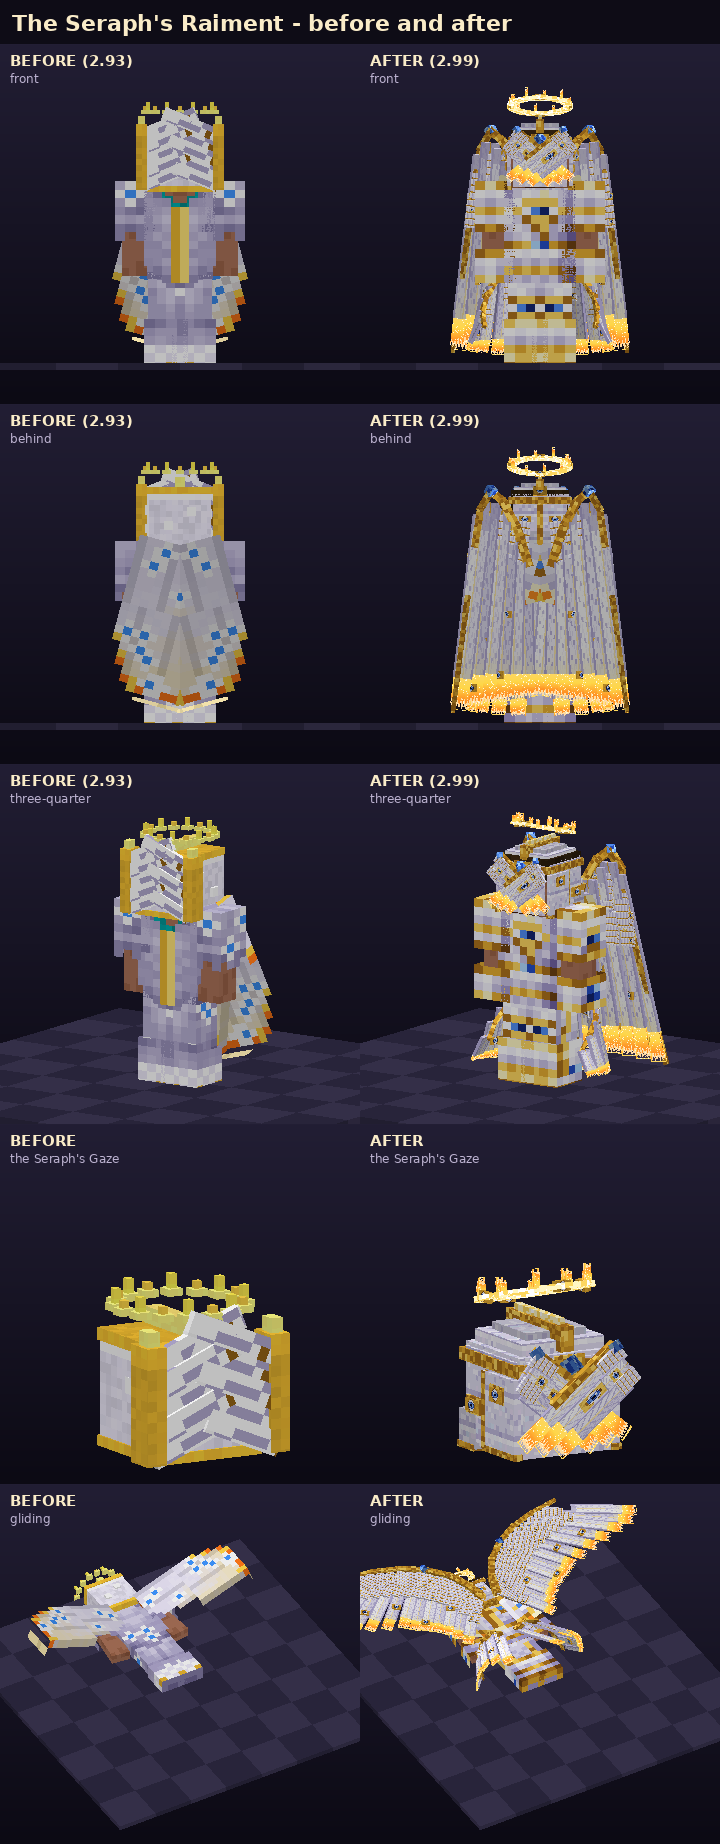
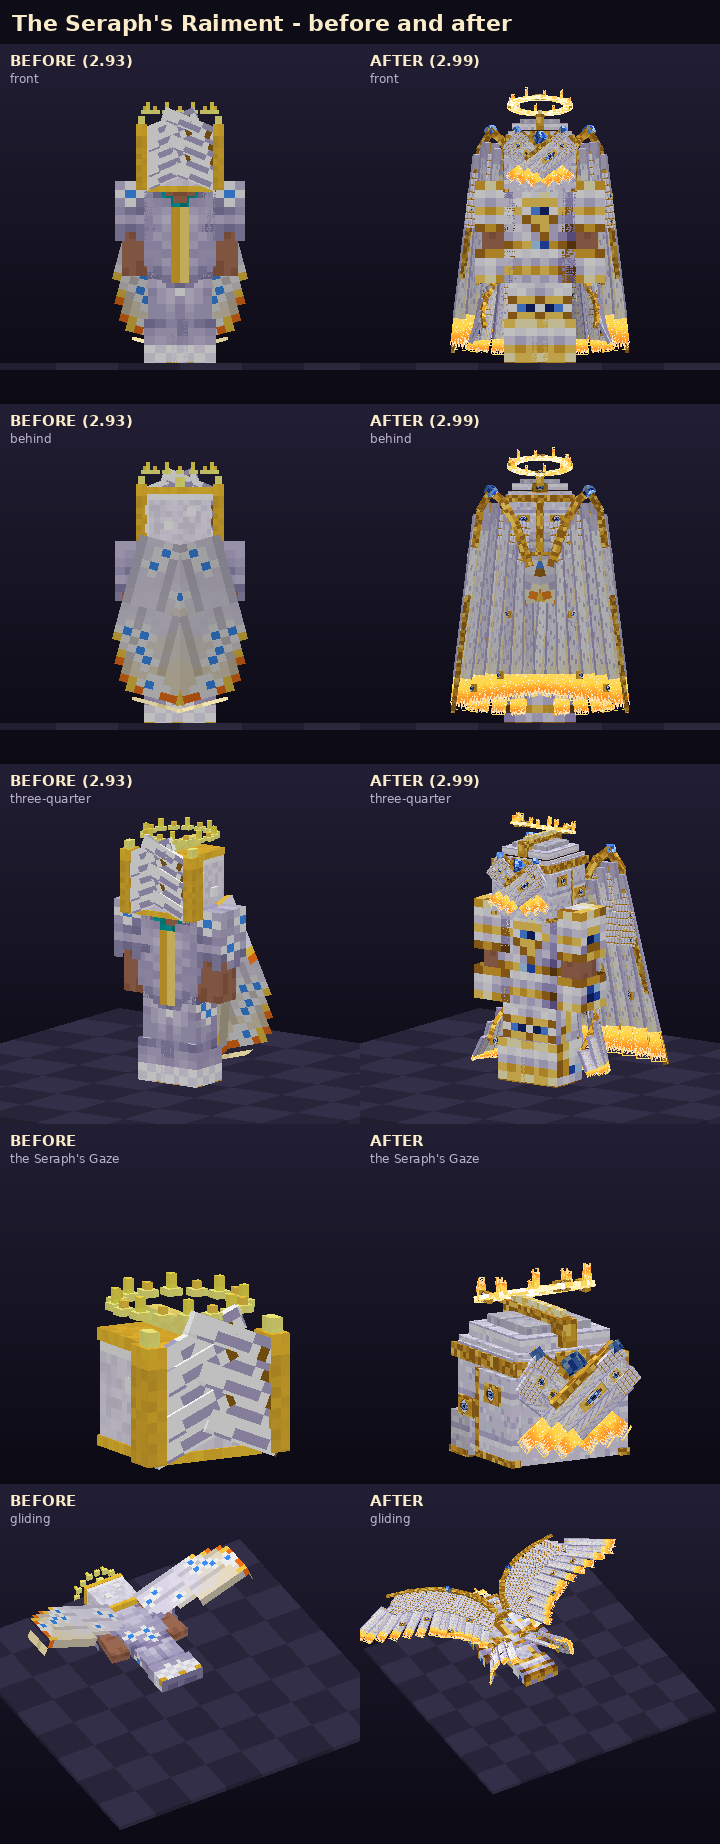
The Seraph's Raiment redone: worn layers, helm, sprites, 3D six-wing displays (seraph_wings)
Claude-Session: https://claude.ai/code/session_01XWL2YCZPbHFbZZugTCggqD

diff --git a/bm_build/tools/preview/seraph.py b/bm_build/tools/preview/seraph.py
@@ -180,14 +180,14 @@ if 'wings' in what and W:
          tile('back', 'at rest (sway b)', 'the idle sway, 40 ticks each way', wings3d='rest_b'),
          tile((60, 10), 'at rest, side', None, wings3d='rest_a'),
          tile('front', 'at rest, front', None, wings3d='rest_a'),
-         tile('back', 'sneaking', 'leaning, folded close', kind='crouch', wings3d='sneak'),
+         tile('back', 'sneaking', 'leaning; drawn round like a mantle', kind='crouch', wings3d='sneak'),
          tile((70, 8), 'sneaking, side', None, kind='crouch', wings3d='sneak'),
          tile('back', 'riding', 'folded close, the lower wings clear', wings3d='ride'),
          tile((150, 10), 'falling (beat a)', 'spread wide and up', wings3d='fall_a', span=4.2, cy=1.3),
          tile((150, 10), 'falling (beat b)', None, wings3d='fall_b', span=4.2, cy=1.3),
-         tile((180, 55), 'gliding (beat a)', 'from behind and above', kind='glide', pitch=90, wings3d='glide_a', span=4.4, cy=0.3),
-         tile((180, 55), 'gliding (beat b)', None, kind='glide', pitch=90, wings3d='glide_b', span=4.4, cy=0.3),
-         tile((215, 30), 'gliding, three-quarter', 'from the front, above', kind='glide', pitch=90, wings3d='glide_a', span=4.4, cy=0.3)]
+         tile((180, 55), 'gliding (beat a)', 'from behind and above', kind='glide', pitch=90, wings3d='glide_a', span=5.8, cy=0.3),
+         tile((180, 55), 'gliding (beat b)', None, kind='glide', pitch=90, wings3d='glide_b', span=5.8, cy=0.3),
+         tile((215, 30), 'gliding, three-quarter', 'from the front, above', kind='glide', pitch=90, wings3d='glide_a', span=5.8, cy=0.3)]
     sheet(T, f'{OUT}/seraph_wings3d.png', cols=4, title="The Seraph's Wings - six wings: two cover the face, two the feet, two fly")
 
 if 'before' in what and OLD:

diff --git a/bm_build/seraph_wings.py b/bm_build/seraph_wings.py
@@ -13,8 +13,9 @@ THE STATES (bm.sws on the wearer; bm:p206w/<set>/pick each tick)
   0 hidden    invisible, spectating, sleeping, swimming - or not wearing it (the displays are killed; back when it ends)
   1 rest      the great wings FOLDED down the back (their arch over the shoulders, the hem burning at the calves), the lower
               wings round the legs to the feet; a slow idle sway (rest_a / rest_b, 40 ticks each way)
-  2 sneak     the body's lean (as the game crouches it), the great wings folded in close, the lower wings drawn up clear of
-              the crouched legs
+  2 sneak     the body's lean (as the game crouches it), the great wings drawn round the body like a mantle (the vanilla
+              elytra mesh flares wide in a crouch - out to 1 block each side - and a tighter fold would leave it showing; the
+              mantle closes over it), the lower wings drawn up clear of the crouched legs
   3 glide     the body along the flight (pitched with the look), the great wings OPEN, spread wide, beating slowly
               (glide_a / glide_b, 15 ticks each way), the lower wings trailing along the legs
   4 fall      upright, falling (fall distance over 3.5): the great wings open, raised in a V and beating fast (6 ticks each)
